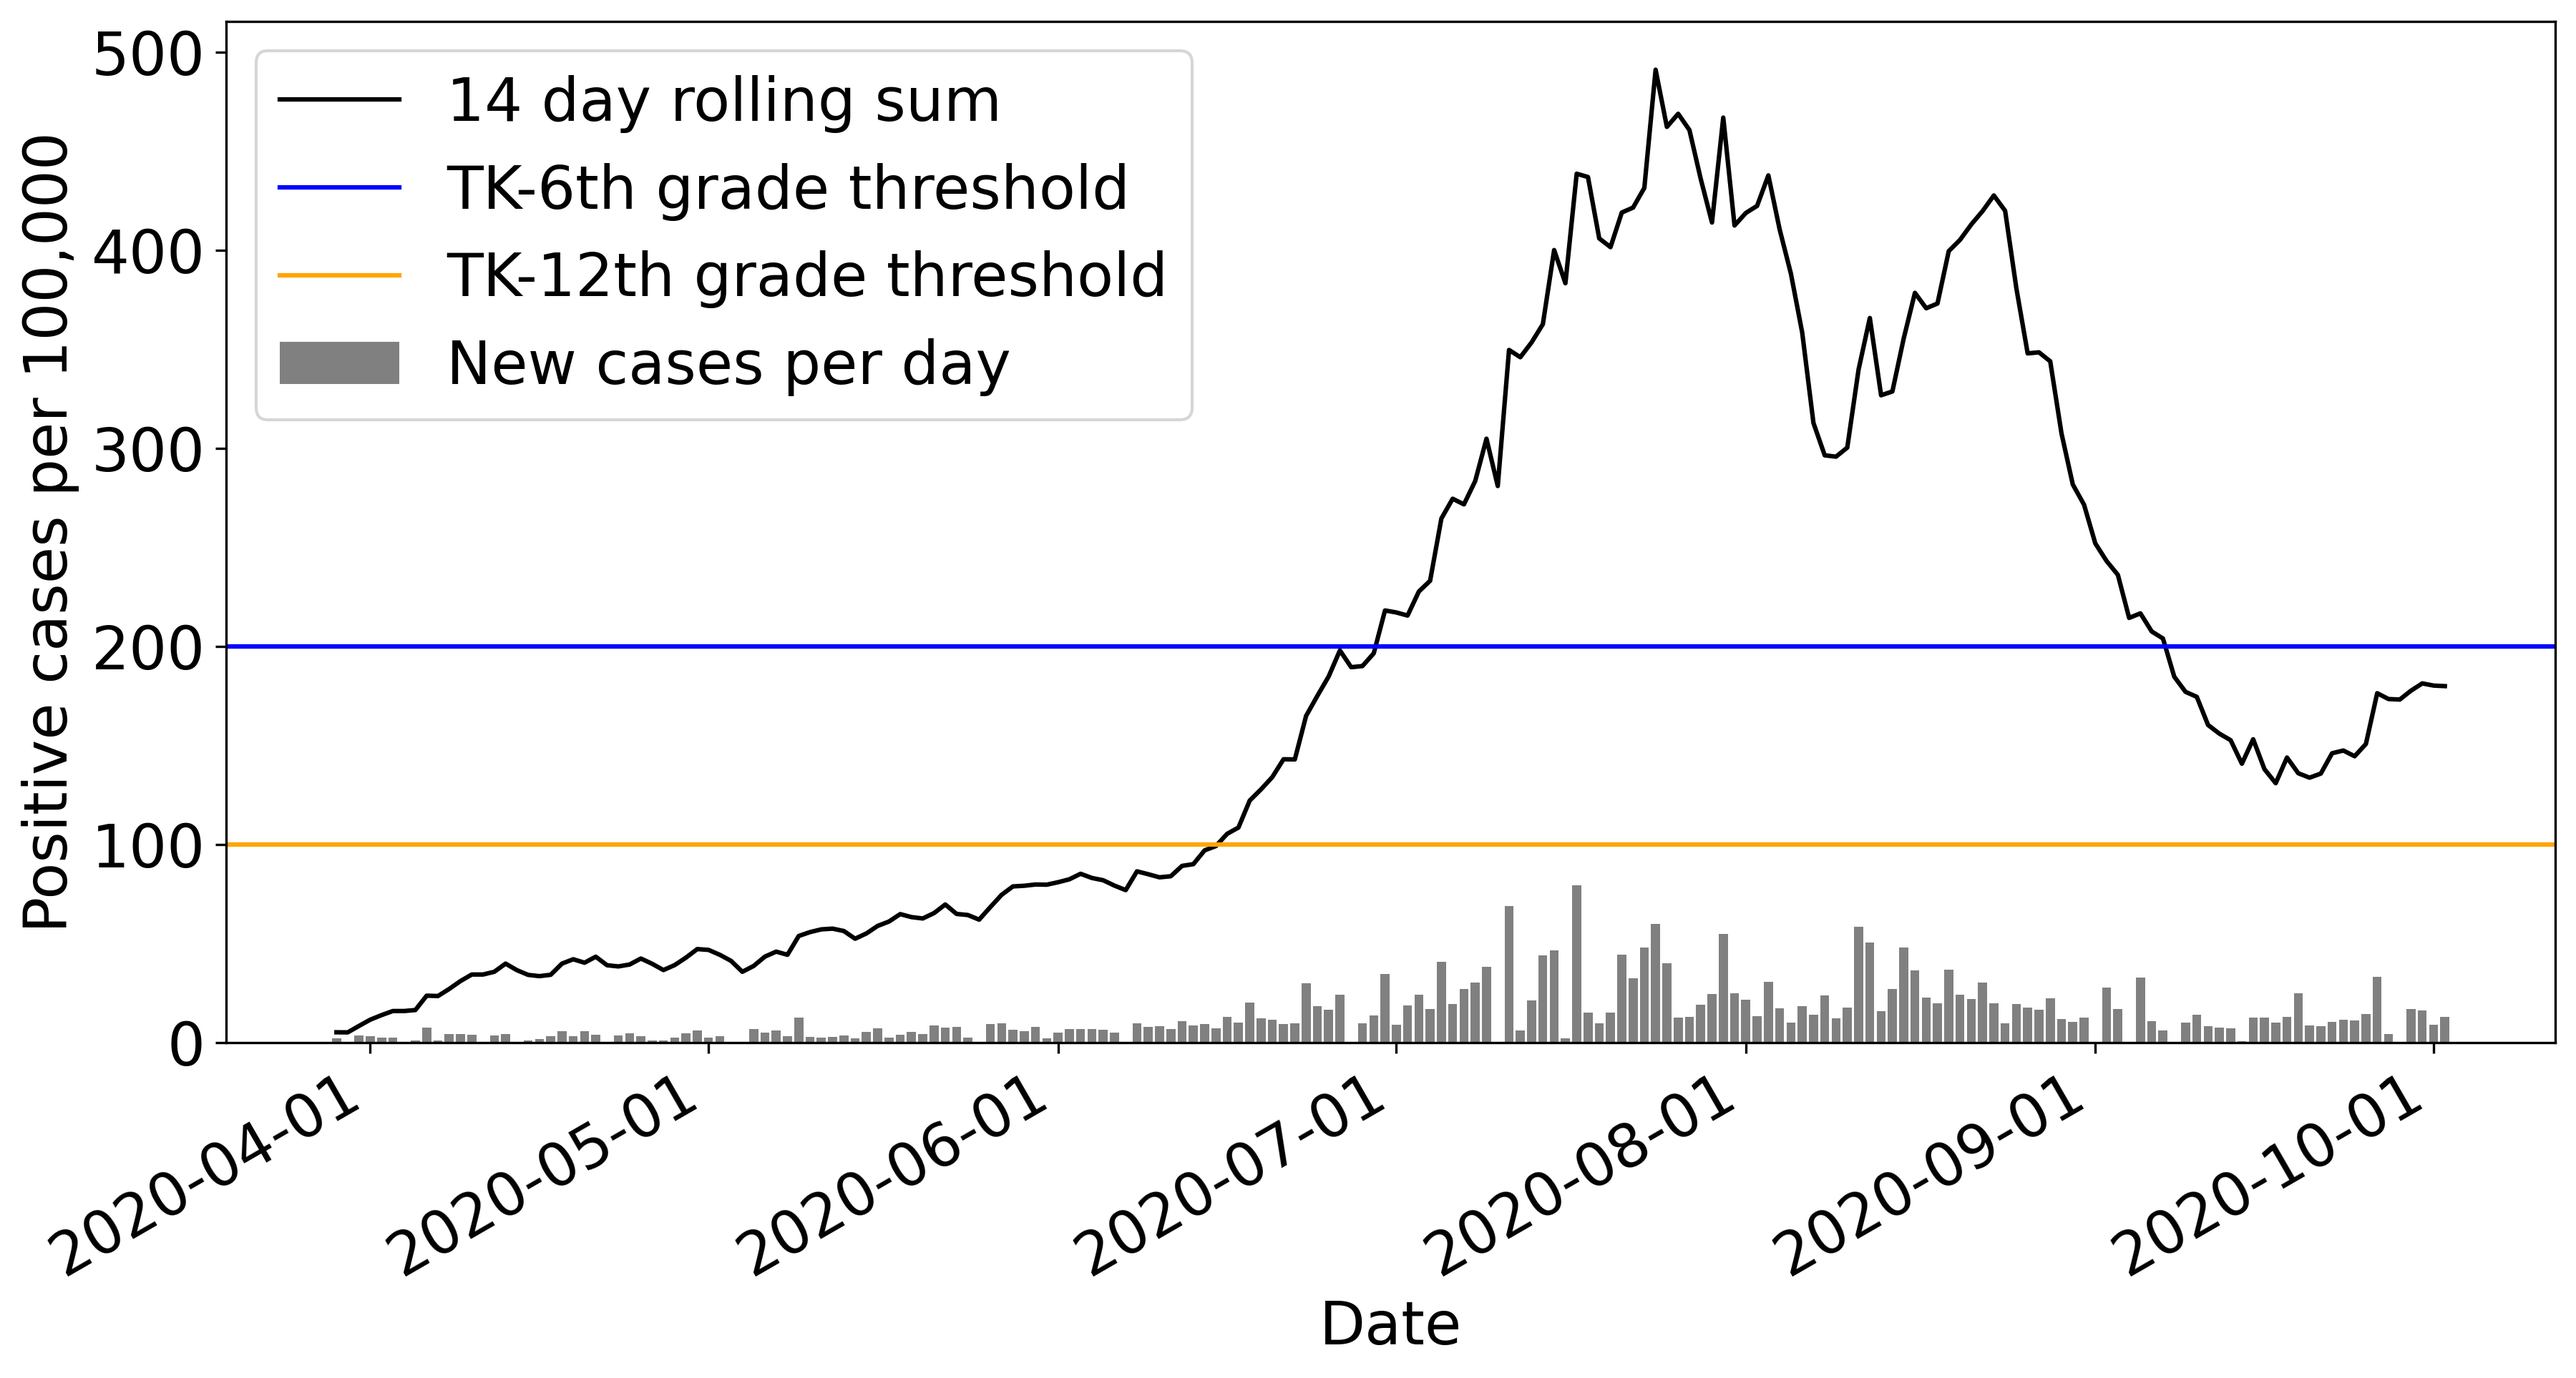
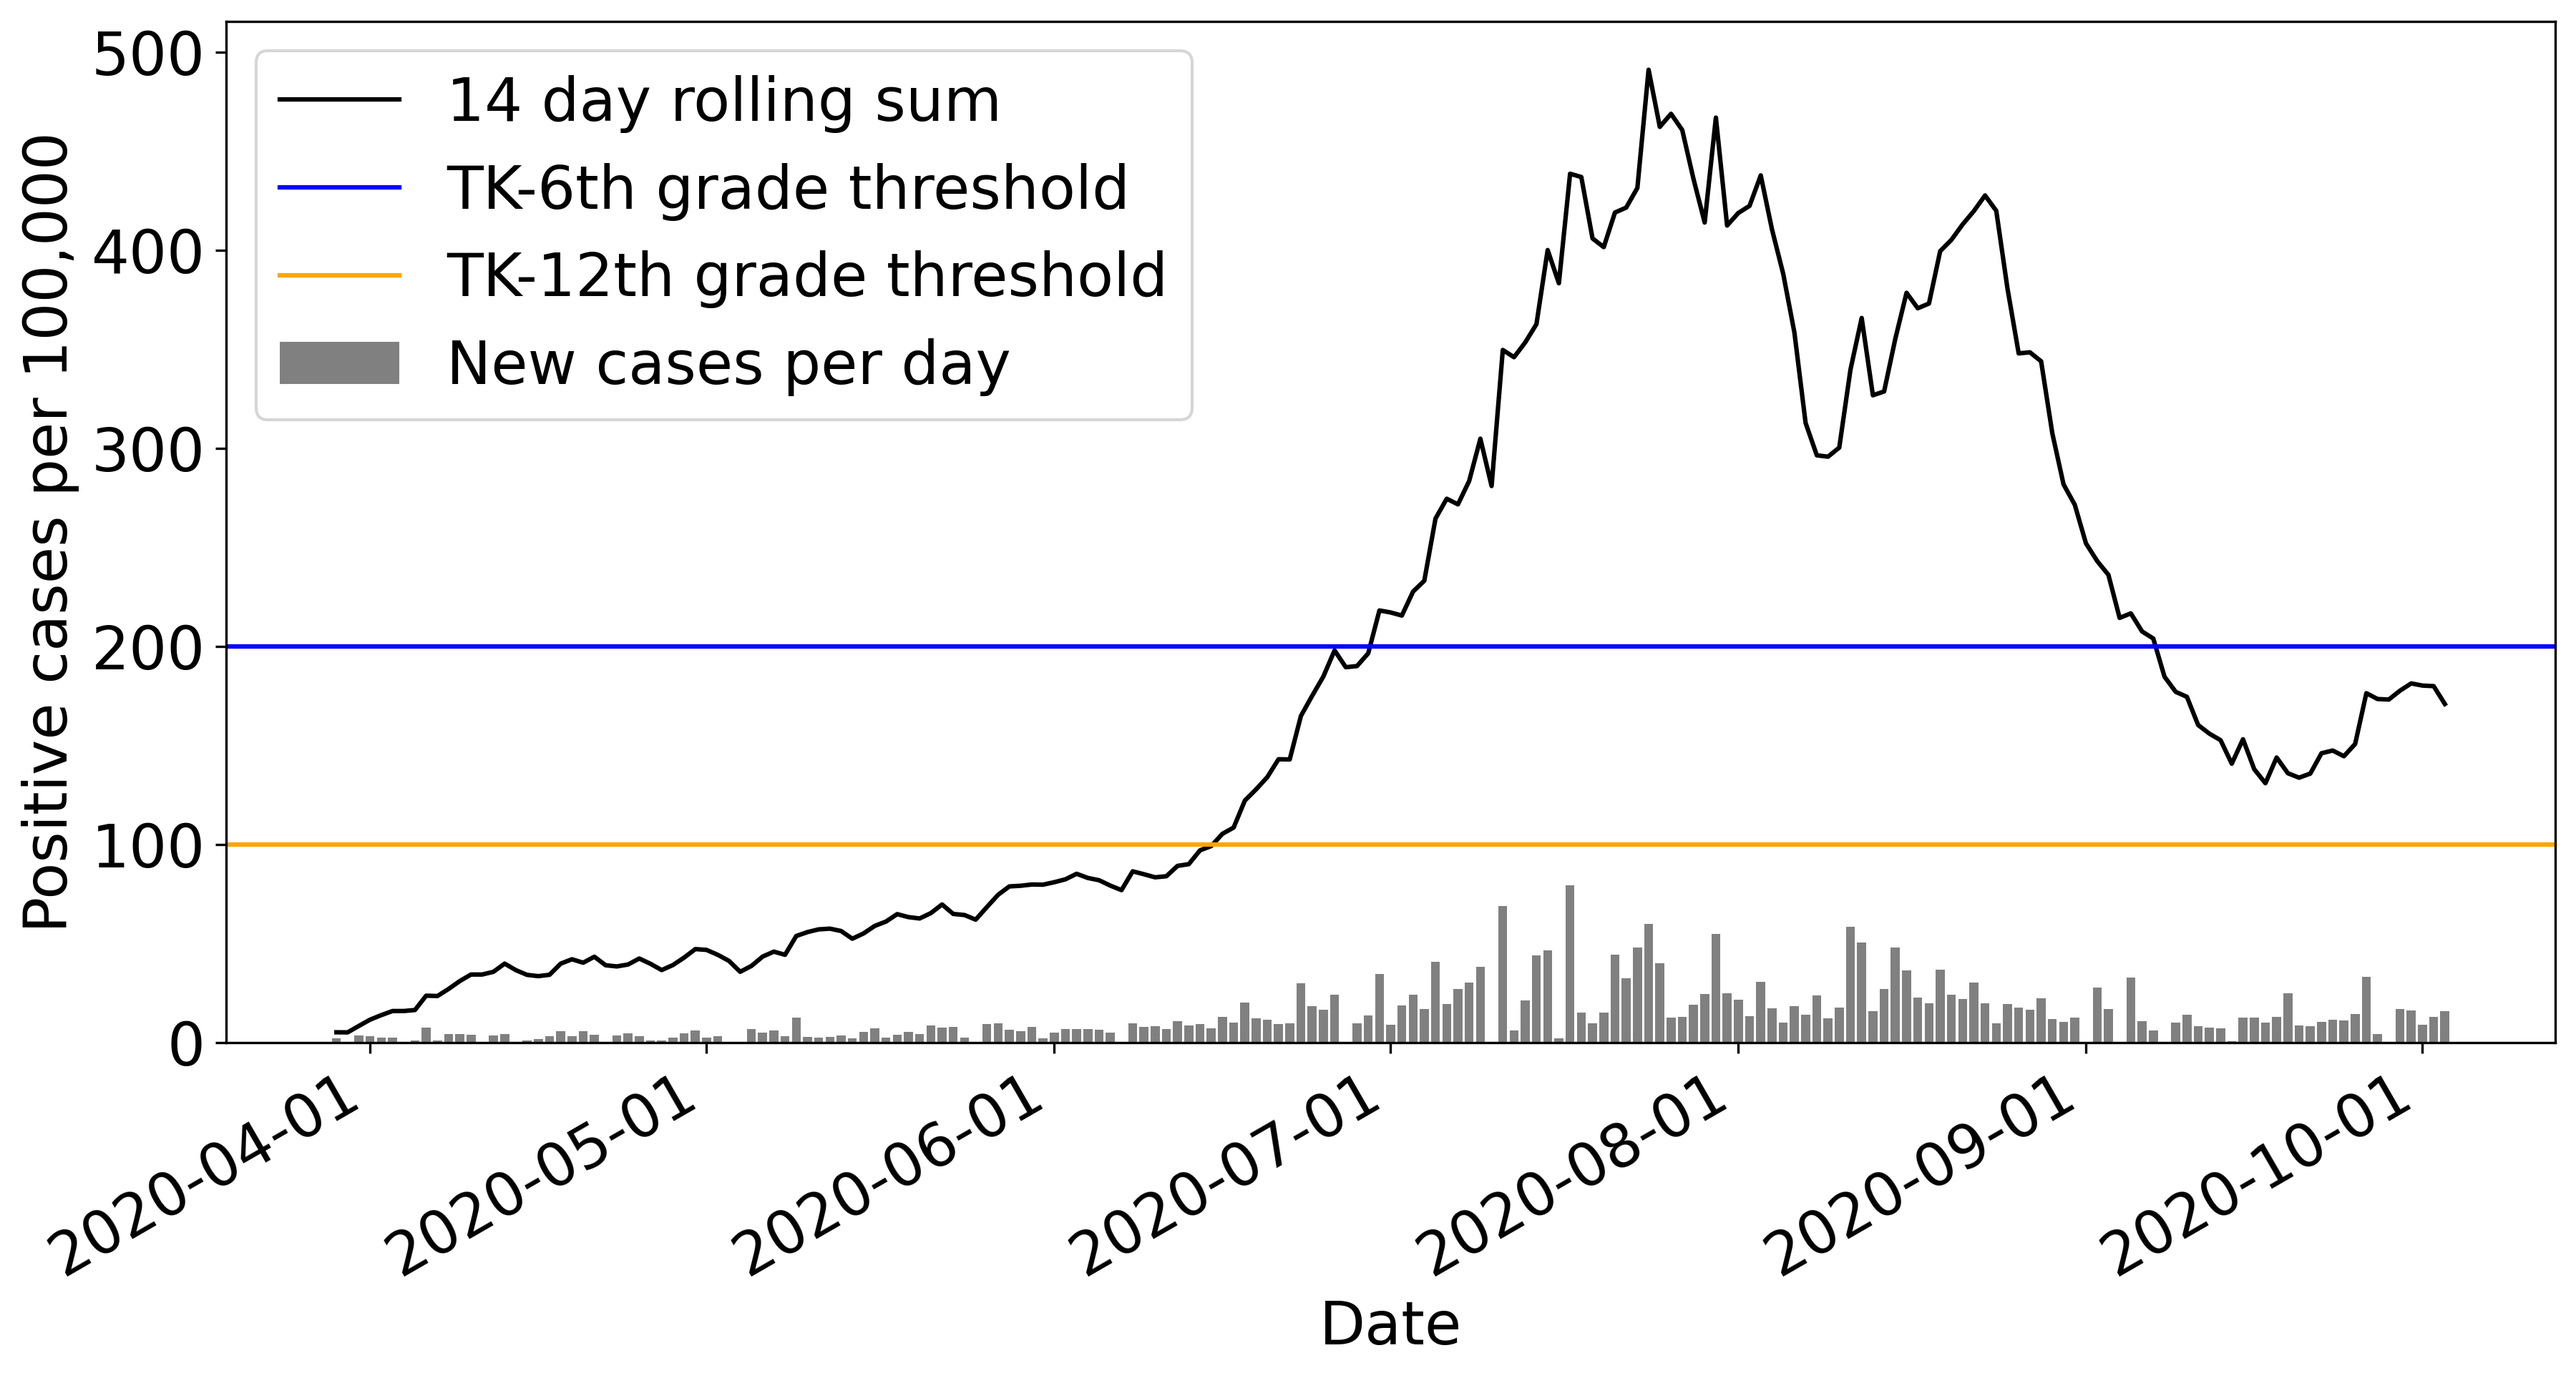
Latest data: Sun Oct  4 06:13:03 UTC 2020

diff --git a/README.md b/README.md
@@ -1,4 +1,4 @@
 # COVID-19 data from San Bernardino County
 ![image1](plots/graph.png)
 ![image2](plots/classification.png)
-**Last Updated:** Sun Oct  4 00:33:23 UTC 2020
+**Last Updated:** Sun Oct  4 06:13:03 UTC 2020
